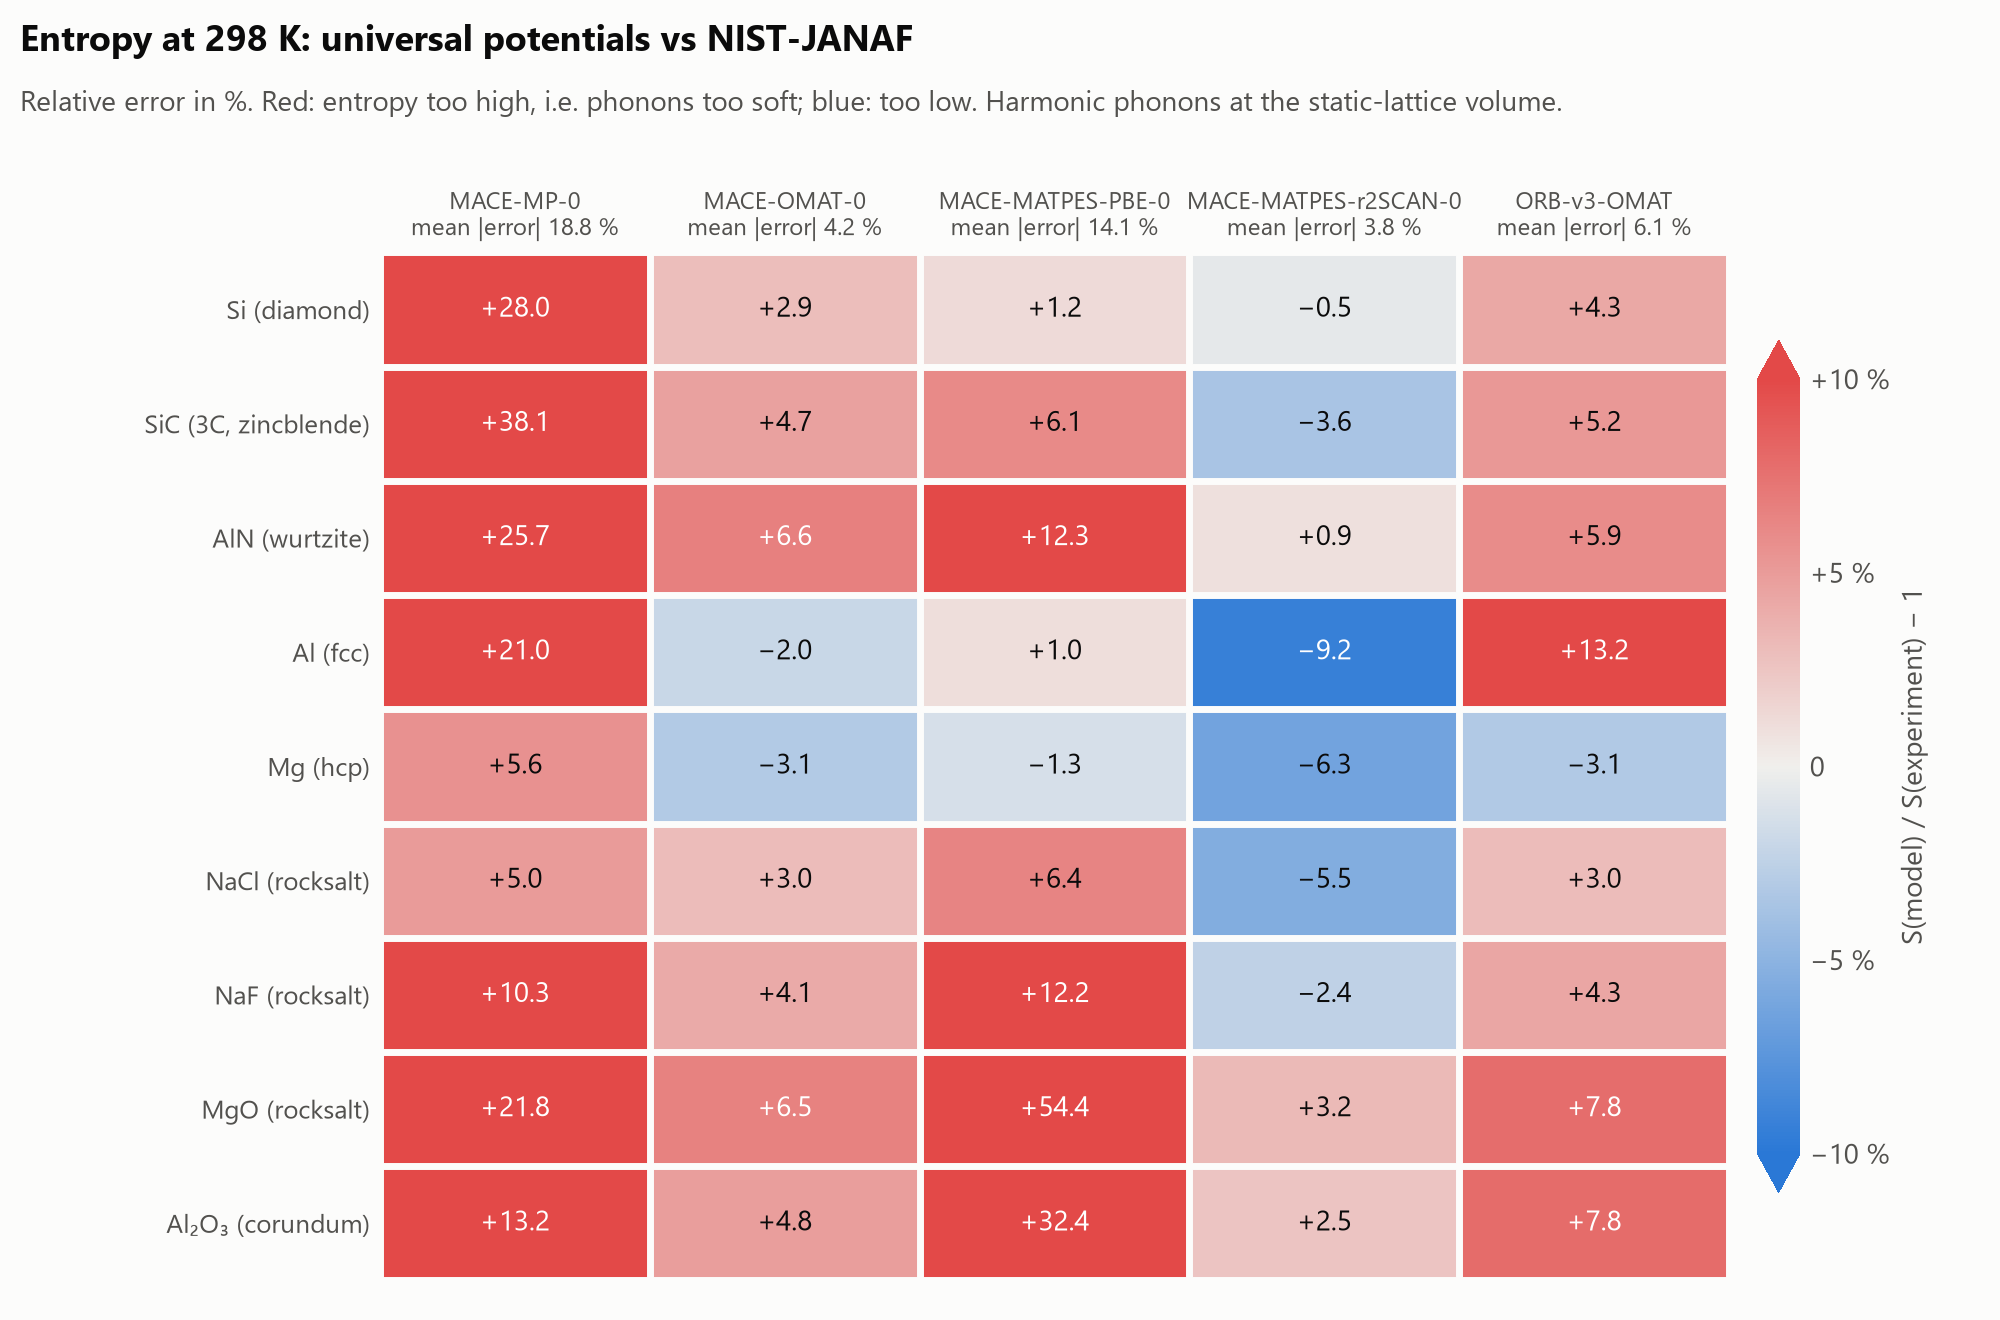
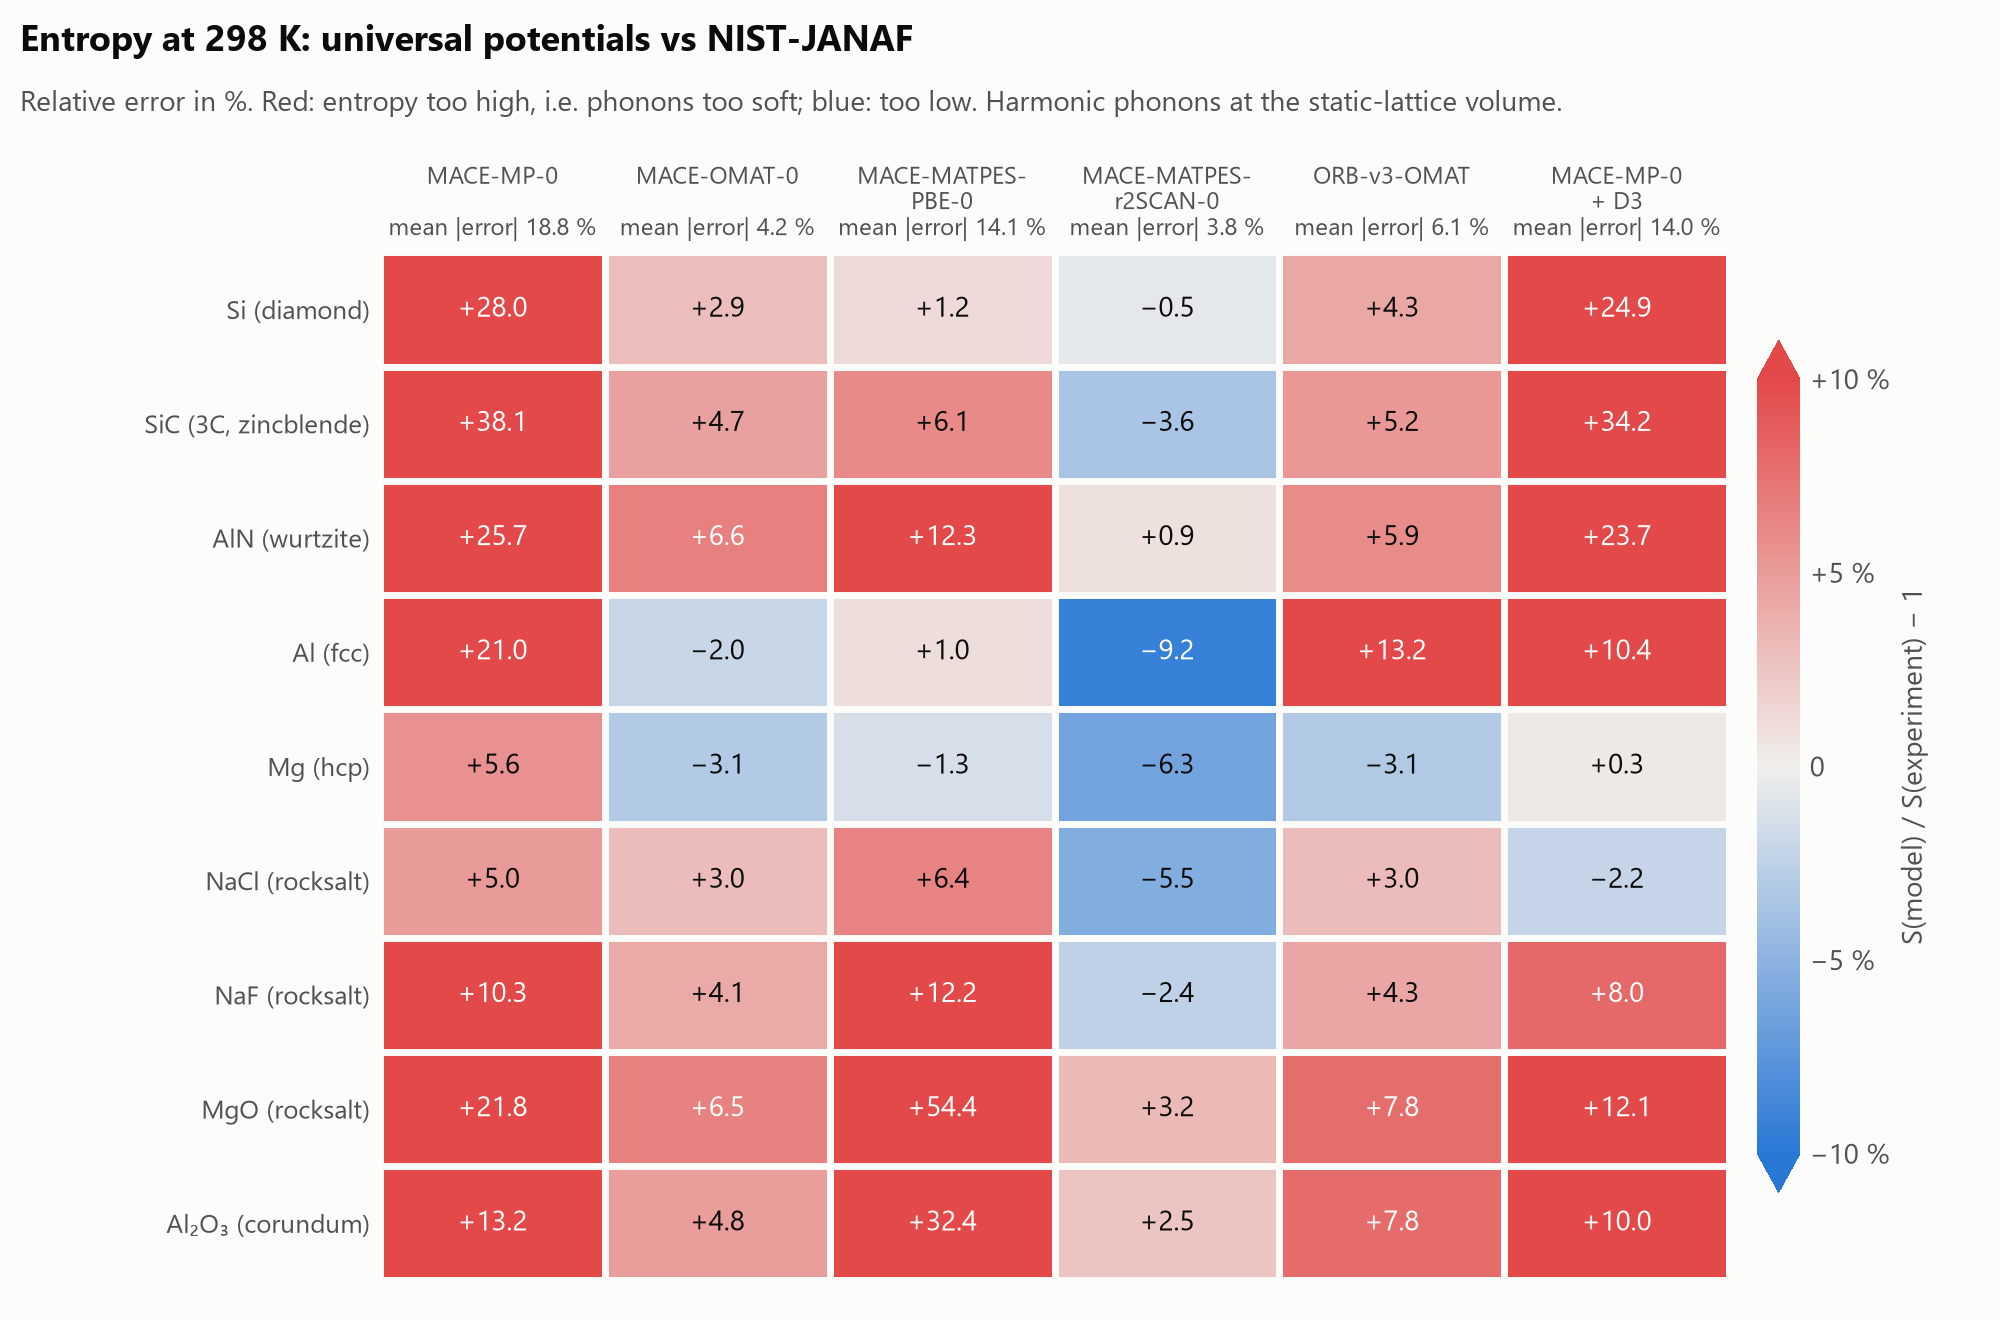
Add the error-decomposition figure; wrap long legends and headers

Changed region(s): [[0.186, 0.1242, 0.868, 0.9939], [0.527, 0.2174, 0.558, 0.2485]]

diff --git a/scripts/make_figures.py b/scripts/make_figures.py
@@ -263,8 +263,15 @@ def entropy_heatmap(models, materials) -> None:
             ax.text(j, i, f"{errors[i, j]:+.1f}".replace("-", "−"), ha="center", va="center", color=ink, fontsize=10)
 
     mae = np.abs(errors).mean(axis=0)
-    ax.set_xticks(range(len(models)), [f"{m.label}\nmean |error| {e:.1f} %" for m, e in zip(models, mae)],
-                  fontsize=8.5)
+    def two_lines(label: str) -> str:  # so that neighbouring column headers do not collide
+        if " + " in label:
+            return label.replace(" + ", "\n+ ")
+        if label.startswith("MACE-MATPES-"):
+            return label.replace("MATPES-", "MATPES-\n")
+        return f"{label}\n"
+
+    ax.set_xticks(range(len(models)),
+                  [f"{two_lines(m.label)}\nmean |error| {e:.1f} %" for m, e in zip(models, mae)], fontsize=8.5)
     ax.set_yticks(range(len(keys)), [_panel_title(materials[k]) for k in keys], fontsize=9.5)
     ax.xaxis.tick_top()
     ax.grid(False)
@@ -290,6 +297,57 @@ def entropy_heatmap(models, materials) -> None:
     _save(fig, "entropy_errors_298K.png")
 
 
+def _entropy_error_pct(directory) -> float:
+    janaf = json.loads((directory / "summary.json").read_text(encoding="utf-8"))["janaf"]
+    return 100 * janaf["S_298_err"] / janaf["S_298_exp"]
+
+
+def geometry_decomposition(models, colors, materials) -> None:
+    """S(298 K) error at the model's own lattice constant (open) and at the
+    experimental static-lattice constant (filled). The shift between the two is
+    the part of the error caused by the lattice constant; what remains at the
+    experimental lattice comes from the force constants themselves."""
+    keys = [k for k, m in materials.items() if m.static_lattice]
+    fig, ax = plt.subplots(figsize=(10, 6.0))
+    width = 0.8 / len(models)
+    for i, key in enumerate(keys):
+        for j, model in enumerate(models):
+            x = i - 0.4 + (j + 0.5) * width
+            own = _entropy_error_pct(results_dir(model.key, key))
+            fixed = _entropy_error_pct(results_dir(model.key, key) / "static_exp_lattice")
+            color = colors[model.key]
+            ax.plot([x, x], [own, fixed], color=color, linewidth=1.6, zorder=2)
+            ax.plot(x, own, marker="o", markersize=7, markerfacecolor=SURFACE, markeredgecolor=color,
+                    markeredgewidth=1.8, linestyle="none", zorder=3)
+            ax.plot(x, fixed, marker="o", markersize=7, markerfacecolor=color, markeredgecolor=SURFACE,
+                    markeredgewidth=1.2, linestyle="none", zorder=4)
+    ax.axhline(0, color=MUTED, linewidth=0.9, zorder=1)
+    for i in range(1, len(keys)):
+        ax.axvline(i - 0.5, color=GRID, linewidth=0.8, zorder=0)
+    ax.grid(False, axis="x")
+    ax.set_xticks(range(len(keys)), [_panel_title(materials[k]) for k in keys], fontsize=9.5)
+    ax.set_xlim(-0.5, len(keys) - 0.5)
+    ax.set_ylabel("S(model) / S(experiment) − 1 at 298 K  (%)")
+    ax.yaxis.set_major_formatter(lambda v, _: f"{v:+.0f}".replace("-", "−") if v else "0")
+
+    handles = [Line2D([], [], color=colors[m.key], label=m.label) for m in models]
+    handles.append(Line2D([], [], marker="o", markersize=7, markerfacecolor=SURFACE, markeredgecolor=INK_SECONDARY,
+                          markeredgewidth=1.8, linestyle="none", label="own lattice"))
+    handles.append(Line2D([], [], marker="o", markersize=7, markerfacecolor=INK_SECONDARY, markeredgecolor=SURFACE,
+                          linestyle="none", label="experimental lattice"))
+    top = header(
+        fig,
+        "Where the entropy error comes from: lattice constant vs force constants",
+        "Open: at the model's own equilibrium lattice. Filled: at the experimental static-lattice constant "
+        "(Hao et al., 2012). The gap is the geometry part.",
+        handles[:len(models)],
+    )
+    fig.legend(handles=handles[len(models):], loc="upper left", ncol=2, bbox_to_anchor=(0.005, 1 - 1.02 / 6.0),
+               handlelength=1.2, columnspacing=1.4)
+    fig.subplots_adjust(left=0.09, right=0.98, bottom=0.08, top=top - 0.06)
+    _save(fig, "entropy_error_decomposition.png")
+
+
 def main() -> None:
     apply_style()
     FIGURES.mkdir(exist_ok=True)
@@ -306,6 +364,10 @@ def main() -> None:
     models = [m for m in all_models.values() if all(done(m, k) for k in materials)]
     heat_capacity_all(models, colors, materials)
     entropy_heatmap(models, materials)
+    decomposed = [m for m in models
+                  if all((results_dir(m.key, k) / "static_exp_lattice" / "summary.json").exists()
+                         for k, mat in materials.items() if mat.static_lattice)]
+    geometry_decomposition(decomposed, colors, materials)
     print(f"figures written to {FIGURES}")
 
 

diff --git a/src/forces2free/plotting.py b/src/forces2free/plotting.py
@@ -8,6 +8,8 @@ always drawn in ink so it never competes with a model for a hue.
 
 from __future__ import annotations
 
+import math
+
 import matplotlib
 
 matplotlib.use("Agg")
@@ -86,6 +88,8 @@ def header(fig: plt.Figure, title: str, subtitle: str, handles: list) -> float:
     fig.text(0.01, below_top(0.45), subtitle, ha="left", va="top", fontsize=10, color=INK_SECONDARY)
     if not handles:
         return below_top(0.8)
-    fig.legend(handles=handles, loc="upper left", ncol=len(handles), bbox_to_anchor=(0.005, below_top(0.7)),
+    ncol = len(handles) if len(handles) <= 6 else math.ceil(len(handles) / 2)
+    rows = math.ceil(len(handles) / ncol)
+    fig.legend(handles=handles, loc="upper left", ncol=ncol, bbox_to_anchor=(0.005, below_top(0.7)),
                handlelength=1.6, columnspacing=1.4)
-    return below_top(1.25)
+    return below_top(1.25 + 0.3 * (rows - 1))
